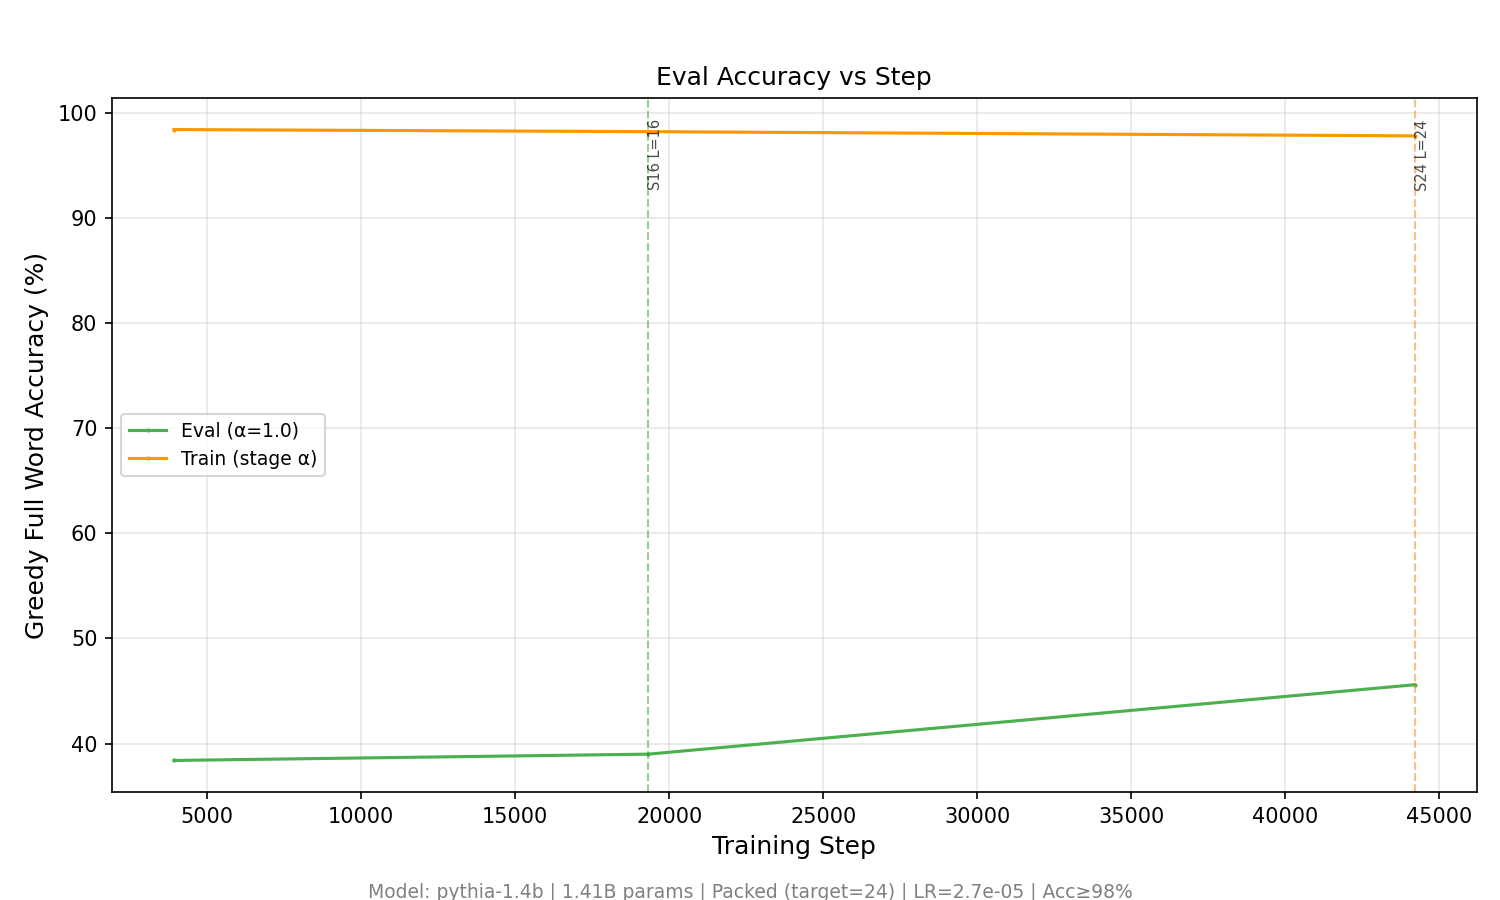
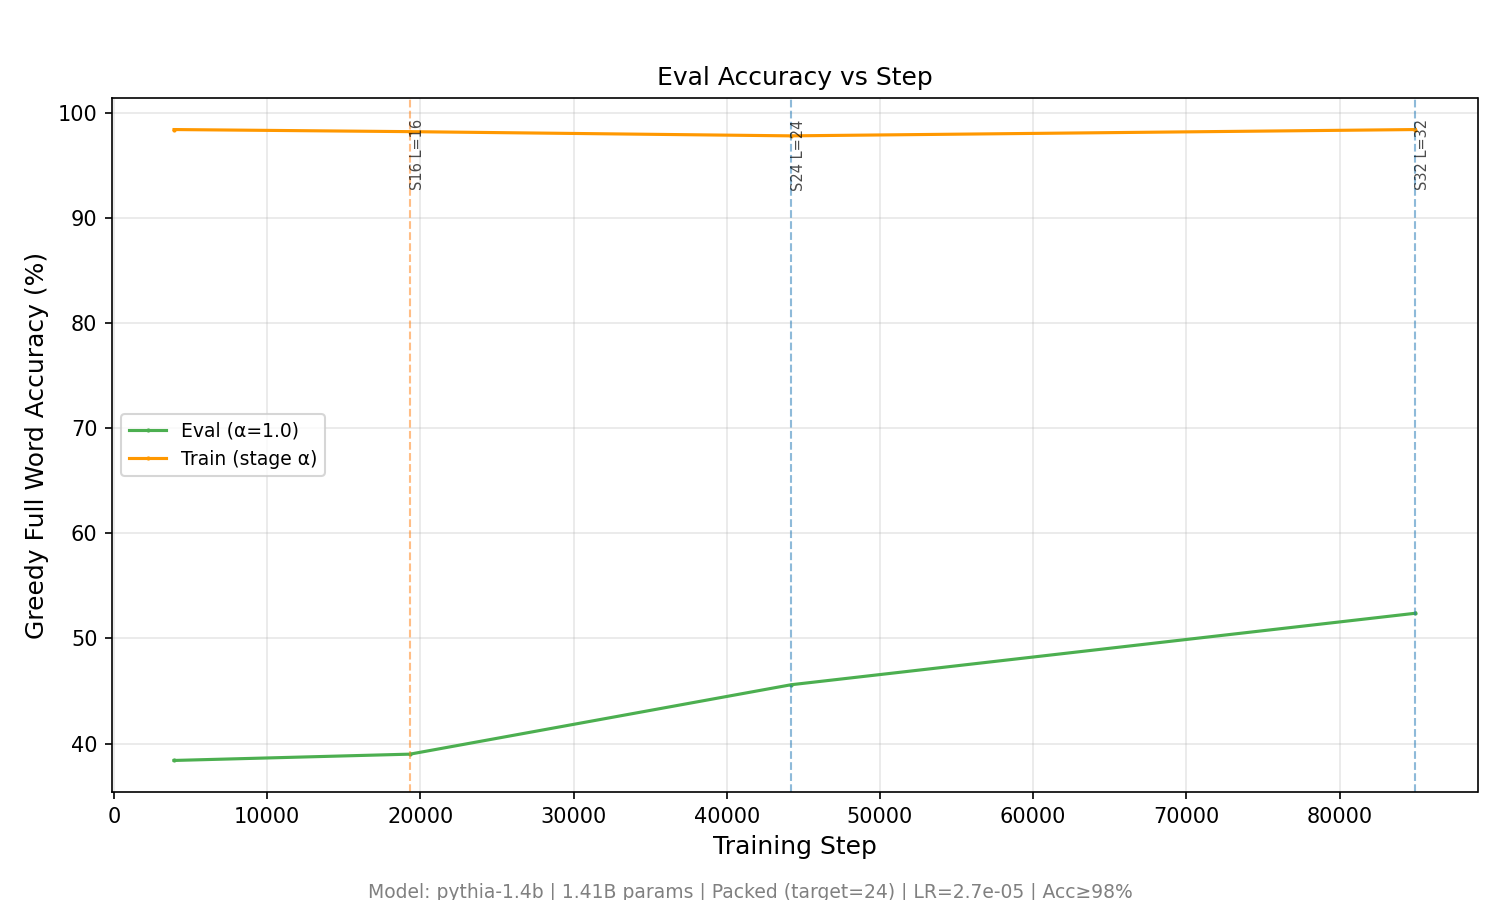
Update Experiment 2 progress (2026-10-18 11:59 UTC)

diff --git a/PROGRESS.md b/PROGRESS.md
@@ -3,7 +3,7 @@
 **Base commit:** `da7b19c` (`main`, plus `--revision` support in `nl/tuning_nl.py`)
 **Branch:** `jackierwzhang/exp2-pythia14b-revisions`
 **VM Instances:** `nl-exp2-spot-step1000`, `nl-exp2-spot-step10000`, `nl-exp2-spot-step100000`, `nl-exp2-spot-step143000` (4x `a3-highgpu-4g` Spot, 4x H100-80GB each)
-**Last updated:** 2026-10-18 11:42 UTC
+**Last updated:** 2026-10-18 11:59 UTC
 
 ## Shared Configuration
 
@@ -29,7 +29,7 @@
 | `step1000` | `step1000` | ~2.1B | `exp2_pythia14b_step1000` | Spot 4x H100 (us-east4-a) | Completed (PFLOPs cap) | 673000 | 28/96 (`L=28`) | 94.62% | 96.25% | 0.0295 | 500,310.1 | 1238.0 | 121.84h | 0.0h (Done) |
 | `step10000` | `step10000` | ~21.0B | `exp2_pythia14b_step10000` | Spot 4x H100 (us-east4-a) | Completed (PFLOPs cap) | 615500 | 28/96 (`L=28`) | 94.88% | 97.75% | 0.0298 | 500,428.3 | 1240.3 | 120.07h | 0.0h (Done) |
 | `step100000` | `step100000` | ~209.7B | `exp2_pythia14b_step100000` | Spot 4x H100 (us-east4-b) | Completed (PFLOPs cap) | 347000 | 58/96 (`L=58`) | 94.88% | 96.88% | 0.0260 | 500,114.3 | 1290.1 | 101.85h | 0.0h (Done) |
-| `step143000` | `step143000` | ~299.9B | `exp2_pythia14b_step143000` | Spot 4x H100 (us-east5-a) | Running | 83970 | 32/96 (`L=32`) | 96.38% | 97.62% | 0.0242 | 67,192.6 | 1294.1 | 13.97h | ~28.0h (stg rate, 33.3% L) / 86.2h (500k cap @ 5,020 PF/h) |
+| `step143000` | `step143000` | ~299.9B | `exp2_pythia14b_step143000` | Spot 4x H100 (us-east5-a) | Running | 84980 | 33/96 (`L=33`) | 97.00% | 97.75% | 0.0202 | 68,405.1 | 1311.6 | 14.23h | ~27.2h (stg rate, 34.4% L) / 84.8h (500k cap @ 5,091 PF/h) |
 
 ## Stage Evaluation Summary (`stage_eval_history.json`, every 8 stages)
 
@@ -68,4 +68,5 @@
 | 8 | 3925 | 8 | 0.0895 | 0.7952 | 39.20% | 38.40% | 98.60% | 98.40% |
 | 16 | 19325 | 16 | 0.1737 | 0.6983 | 40.20% | 39.00% | 98.40% | 98.20% |
 | 24 | 44200 | 24 | 0.2579 | 0.5538 | 47.40% | 45.60% | 97.80% | 97.80% |
+| 32 | 84950 | 32 | 0.3421 | 0.3902 | 53.40% | 52.40% | 98.80% | 98.40% |
 
